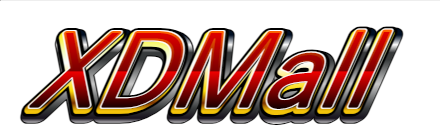
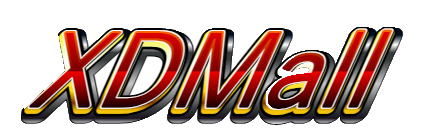
产品页+模态登录+语言处理

diff --git a/src/main/resources/templates/include/fore/category/sortBar.html b/src/main/resources/templates/include/fore/category/sortBar.html
@@ -1,0 +1,59 @@
+<div th:fragment="html"> 
+	<script>
+		$(function(){
+			$("input.sortBarPrice").keyup(function(){
+				var num= $(this).val();
+				if(num.length==0){
+					$("div.productUnit").show();
+					return;
+				}
+					
+				num = parseInt(num);
+				if(isNaN(num))
+					num= 1;
+				if(num<=0)
+					num = 1;
+				$(this).val(num);		
+				
+				
+				var begin = $("input.beginPrice").val();
+				var end = $("input.endPrice").val();
+				if(!isNaN(begin) && !isNaN(end)){
+					$("div.productUnit").hide();
+					$("div.productUnit").each(function(){
+						var price = $(this).attr("price");
+						price = new Number(price);
+						
+						if(price<=end && price>=begin)
+							$(this).show();
+					});
+				}
+				
+			});
+		});
+	</script>	
+	<div class="categorySortBar">
+	
+	
+		<table class="categorySortBarTable categorySortTable">
+			<tr>
+				<td :class="{'grayColumn':(sort==null||sort=='all')}"><a :href="'?cid='+c.id+'&sort=all'">Comprehensive<span class="glyphicon glyphicon-arrow-down"></span></a></td>
+				<td :class="{'grayColumn':(sort==null||sort=='review')}"><a :href="'?cid='+c.id+'&sort=review'">Popularity<span class="glyphicon glyphicon-arrow-down"></span></a></td>
+				<td :class="{'grayColumn':(sort==null||sort=='date')}"><a :href="'?cid='+c.id+'&sort=date'">New product<span class="glyphicon glyphicon-arrow-down"></span></a></td>
+				<td :class="{'grayColumn':(sort==null||sort=='saleCount')}"><a :href="'?cid='+c.id+'&sort=saleCount'">Sales<span class="glyphicon glyphicon-arrow-down"></span></a></td>
+				<td :class="{'grayColumn':(sort==null||sort=='price')}"><a :href="'?cid='+c.id+'&sort=price'">Price<span class="glyphicon glyphicon-resize-vertical"></span></a></td>
+			</tr>
+		</table>
+		
+		
+		
+		<table class="categorySortBarTable">
+			<tr>
+				<td><input class="sortBarPrice beginPrice" type="text" placeholder="1"></td>
+				<td class="grayColumn priceMiddleColumn">-</td>
+				<td><input class="sortBarPrice endPrice" type="text" placeholder="999"></td>
+			</tr>
+		</table>
+	
+	</div>
+</div>

diff --git a/src/main/resources/templates/include/fore/category/categoryPage.html b/src/main/resources/templates/include/fore/category/categoryPage.html
@@ -1,0 +1,44 @@
+<div th:fragment="html"> 
+	<script>
+		$(function(){
+			var cid = getUrlParms("cid");
+			var sort = getUrlParms("sort");
+	        var data4Vue = {
+	        		uri:'forecategory',
+	        		c:'',
+	        		sort:''
+	        };
+	        //ViewModel
+	        var vue = new Vue({
+	            el: '#workingArea',
+	            data: data4Vue,
+	            mounted:function(){ //mounted　表示这个 Vue 对象加载成功了
+	            	this.load();
+	            },        
+	            methods: {     	
+	            	load:function(){
+	            		this.sort = sort;
+	                    var url =  this.uri+"/"+cid+"?sort="+sort;
+	                    axios.get(url).then(function(response) {
+	                    	vue.c = response.data;
+	                        vue.$nextTick(function(){
+	        	            	linkDefaultActions();
+	                        })
+	                    });
+	                    
+	            	}
+	            }
+	        });       			
+			
+		})
+	</script>
+	
+	<title>XDMall-{{c.name}}</title>
+	<div id="category">
+		<div class="categoryPageDiv">
+			<img v-if="c.id!=null" :src="'img/category/'+c.id+'.jpg'">
+			<div th:replace="include/fore/category/sortBar::html" ></div>	
+			<div th:replace="include/fore/category/productsByCategory::html" ></div>	
+		</div>
+	</div>
+</div>

diff --git a/src/main/resources/templates/include/fore/category/productsByCategory.html b/src/main/resources/templates/include/fore/category/productsByCategory.html
@@ -1,0 +1,30 @@
+<div th:fragment="html"> 
+	<div class="categoryProducts">
+			<div v-for="p in c.products"  class="productUnit" :price="p.promotePrice">
+				<div class="productUnitFrame">
+					<a :href="'product?pid='+p.id">
+						<img class="productImage" :src="'img/productSingle_middle/'+p.firstProductImage.id+'.jpg'">
+					</a>
+					<span class="productPrice">{{p.promotePrice|formatMoneyFilter}} </span>
+					
+					<a class="productLink" :href="'product?pid='+p.id">
+						 {{p.name|subStringFilter(0,50)}}
+					</a>
+					
+					<a  class="tmallLink" :href="'product?pid='+p.id">XDMall Only</a>
+		
+					<div class="show1 productInfo">
+						<span class="monthDeal ">Having sold <span class="productDealNumber">{{p.saleCount}}</span></span>
+						<span class="productReview">Reviews<span class="productReviewNumber">{{p.reviewCount}}</span></span>
+						<span class="wangwang">
+						<a class="wangwanglink" href="#nowhere">
+							<img src="img/site/wangwang.png">
+						</a>
+						
+						</span>
+					</div>
+				</div>
+			</div>
+			<div style="clear:both"></div>
+	</div>
+</div>

diff --git a/src/main/resources/templates/include/fore/search.html b/src/main/resources/templates/include/fore/search.html
@@ -1,11 +1,11 @@
 <div class th:fragment="html">
     <a th:href="${application.contextPath}">
-        <img id="logo" src="img/site/logo.gif" class="logo">
+        <img id="logo" src="img/site/XDMall.png" class="logo">
     </a>
     <form action="search" method="get" >
         <div class="searchDiv">
-            <input name="keyword" type="text" placeholder="时尚男鞋  太阳镜 ">
-            <button  type="submit" class="searchButton">搜索</button>
+            <input name="keyword" type="text" placeholder="Your Favourite ">
+            <button  type="submit" class="searchButton">Search</button>
             <div class="searchBelow">
 				<span th:each="c,status: ${application.categories_below_search}" th:if="${status.index>=5 && status.index<=8}">
 					<a th:href="@{'category?cid='+${c.id}}" th:text="${c.name}" ></a>

diff --git a/src/main/resources/templates/include/fore/simpleSearch.html b/src/main/resources/templates/include/fore/simpleSearch.html
@@ -4,8 +4,8 @@
     </a>
     <form action="search" method="get" >
         <div class="simpleSearchDiv pull-right">
-            <input type="text" placeholder="平衡车 原汁机"  name="keyword">
-            <button class="searchButton" type="submit">搜天猫</button>
+            <input type="text" placeholder="Your Favourite"  name="keyword">
+            <button class="searchButton" type="submit">Search in XDMall</button>
             <div class="searchBelow">
 				<span th:each="c,status: ${application.categories_below_search}" th:if="${status.index>=7 && status.index<=10}">
 					<a th:href="@{'category?cid='+${c.id}}" th:text="${c.name}" ></a>

diff --git a/src/main/resources/templates/fore/category.html b/src/main/resources/templates/fore/category.html
@@ -1,0 +1,12 @@
+<!DOCTYPE html>
+<html xmlns:th="http://www.thymeleaf.org">
+	<head th:include="include/fore/header::html" ></head>
+	<body>
+		<div id="workingArea">
+			<div th:replace="include/fore/top::html" ></div>	
+			<div th:replace="include/fore/search::html" ></div>	
+			<div th:replace="include/fore/category/categoryPage::html" ></div>	
+			<div th:replace="include/fore/footer::html" ></div>	
+		</div>
+	</body>
+</html>

diff --git a/src/main/resources/templates/include/fore/home/homepageCategoryProducts.html b/src/main/resources/templates/include/fore/home/homepageCategoryProducts.html
@@ -10,7 +10,7 @@
                 </a>
 
                 <a class="productItemDescLink" href="'product?pid='+p.id">
-									<span class="productItemDesc">[热销]
+									<span class="productItemDesc">[Sell Well]
 									{{p.name | subStringFilter(0,20)}}
 									</span>
                 </a>

diff --git a/src/main/resources/templates/include/fore/home/categoryAndcarousel.html b/src/main/resources/templates/include/fore/home/categoryAndcarousel.html
@@ -8,7 +8,7 @@
             <div class="head ">
 
                 <span style="margin-left:10px" class="glyphicon glyphicon-th-list"></span>
-                <span style="margin-left:10px" >商品分类</span>
+                <span style="margin-left:10px" >Categories</span>
 
             </div>
 

diff --git a/src/main/resources/templates/include/fore/home/homePage.html b/src/main/resources/templates/include/fore/home/homePage.html
@@ -96,7 +96,7 @@
     </script>
 
 
-    <title>模仿天猫官网</title>
+    <title>XDMall</title>
     <div class="homepageDiv">
         <div th:replace="include/fore/home/categoryAndcarousel::html" ></div>
         <div th:replace="include/fore/home/homepageCategoryProducts::html" ></div>

diff --git a/src/main/java/com/tmall/web/ForeRESTController.java b/src/main/java/com/tmall/web/ForeRESTController.java
@@ -1,6 +1,7 @@
 package com.tmall.web;
 
 import com.tmall.pojo.*;
+import com.tmall.comparator.*;
 import com.tmall.service.CategoryService;
 import com.tmall.service.ProductService;
 import com.tmall.service.UserService;
@@ -9,8 +10,9 @@ import org.springframework.beans.factory.annotation.Autowired;
 import org.springframework.web.bind.annotation.*;
 import org.springframework.web.util.HtmlUtils;
 import com.tmall.service.*;
-import javax.servlet.http.HttpSession;
 
+import javax.servlet.http.HttpSession;
+import java.util.Collections;
 import java.util.HashMap;
 import java.util.List;
 import java.util.Map;
@@ -107,5 +109,38 @@ public class ForeRESTController {
         if(null!=user)
             return Result.success();
         return Result.fail("未登录");
+    }
+
+    @GetMapping("forecategory/{cid}")
+    public Object category(@PathVariable int cid,String sort) {
+        Category c = categoryService.get(cid);
+        productService.fill(c);
+        productService.setSaleAndReviewNumber(c.getProducts());
+        categoryService.removeCategoryFromProduct(c);
+
+        if(null!=sort){
+            switch(sort){
+                case "review":
+                    Collections.sort(c.getProducts(),new ProductReviewComparator());
+                    break;
+                case "date" :
+                    Collections.sort(c.getProducts(),new ProductDateComparator());
+                    break;
+
+                case "saleCount" :
+                    Collections.sort(c.getProducts(),new ProductSaleCountComparator());
+                    break;
+
+                case "price":
+                    Collections.sort(c.getProducts(),new ProductPriceComparator());
+                    break;
+
+                case "all":
+                    Collections.sort(c.getProducts(),new ProductAllComparator());
+                    break;
+            }
+        }
+
+        return c;
     }
 }

diff --git a/src/main/java/com/tmall/comparator/ProductAllComparator.java b/src/main/java/com/tmall/comparator/ProductAllComparator.java
@@ -1,0 +1,16 @@
+package com.tmall.comparator;
+
+import java.util.Comparator;
+
+import com.tmall.pojo.Product;
+
+
+
+public class ProductAllComparator implements Comparator<Product>{
+
+	@Override
+	public int compare(Product p1, Product p2) {
+		return p2.getReviewCount()*p2.getSaleCount()-p1.getReviewCount()*p1.getSaleCount();
+	}
+
+}

diff --git a/src/main/java/com/tmall/comparator/ProductDateComparator.java b/src/main/java/com/tmall/comparator/ProductDateComparator.java
@@ -1,0 +1,17 @@
+package com.tmall.comparator;
+
+
+
+import java.util.Comparator;
+
+import com.tmall.pojo.Product;
+
+
+public class ProductDateComparator implements Comparator<Product>{
+
+	@Override
+	public int compare(Product p1, Product p2) {
+		return p1.getCreateDate().compareTo(p2.getCreateDate());
+	}
+
+}
